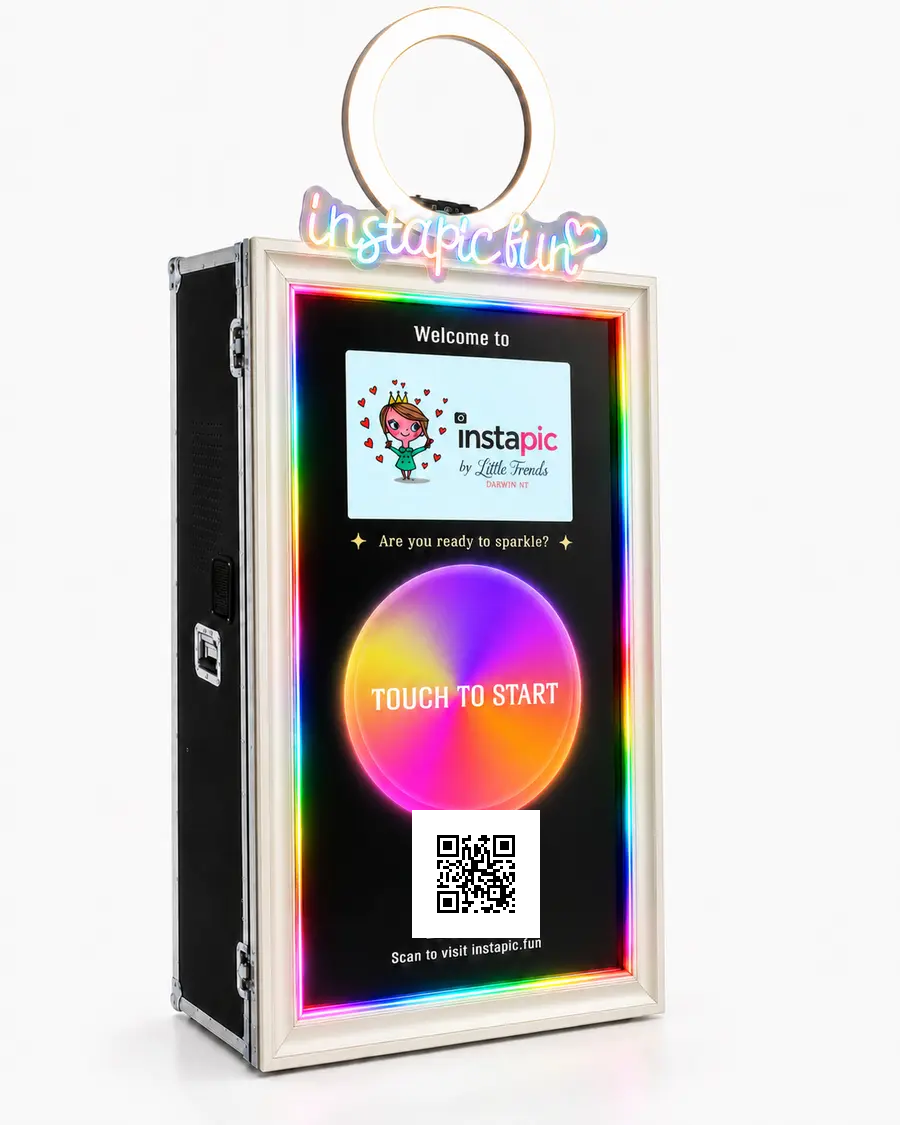
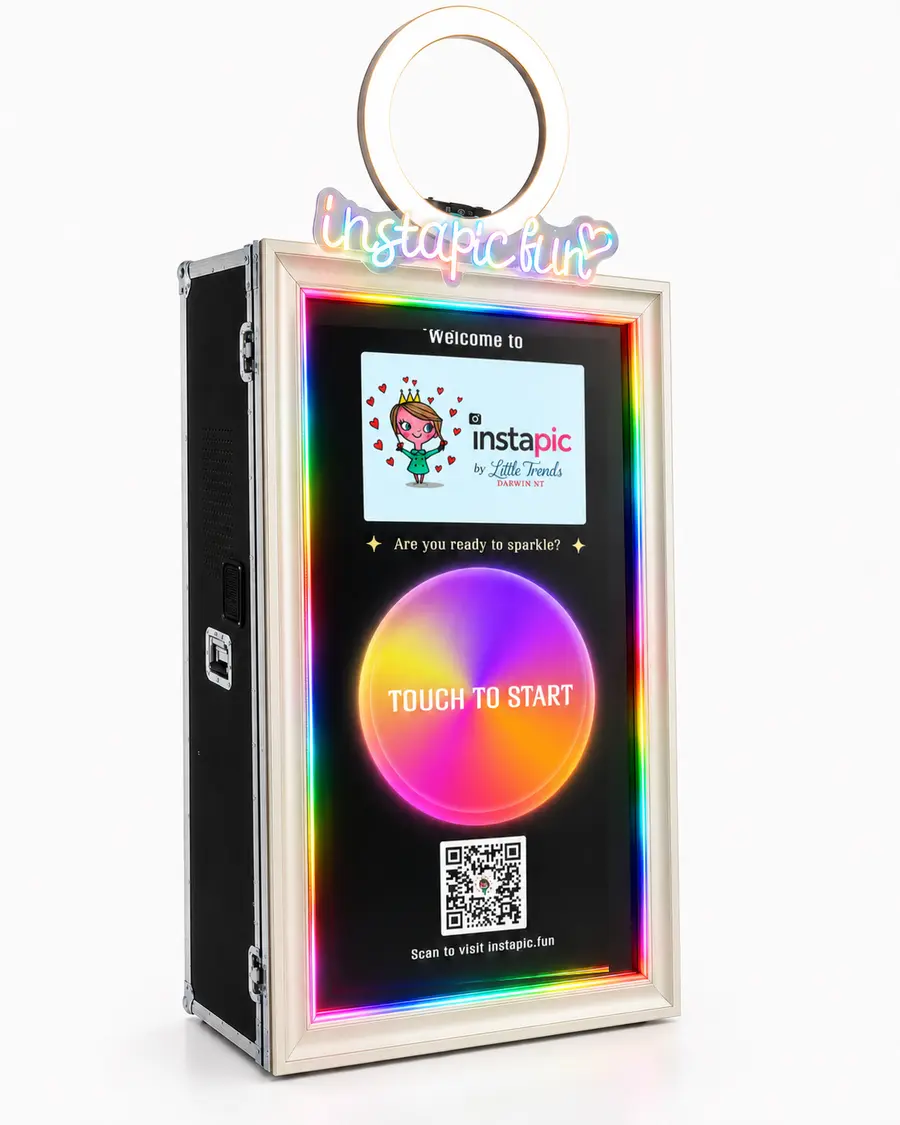
Use exact gold display on white mirror photo

Changed region(s): [[0.1867, 0.0, 0.7778, 0.9644]]

diff --git a/events.html b/events.html
@@ -152,7 +152,7 @@
           </div>
         </article>
         <article class="mirror-option">
-          <img src="assets/img/mirror-2-white-pearl.webp?v=20260902-gold-screen-white-frame" alt="Instapic Mirror 2 with its white pearl frame and colour LED lights" width="900" height="1125" loading="lazy">
+          <img src="assets/img/mirror-2-white-pearl.webp?v=20260902-exact-gold-screen" alt="Instapic Mirror 2 with its white pearl frame and colour LED lights" width="900" height="1125" loading="lazy">
           <div class="mirror-option-copy">
             <h3>Mirror 2 — White pearl frame</h3>
             <p>Elegant white pearl frame finished with colour LED lights.</p>
